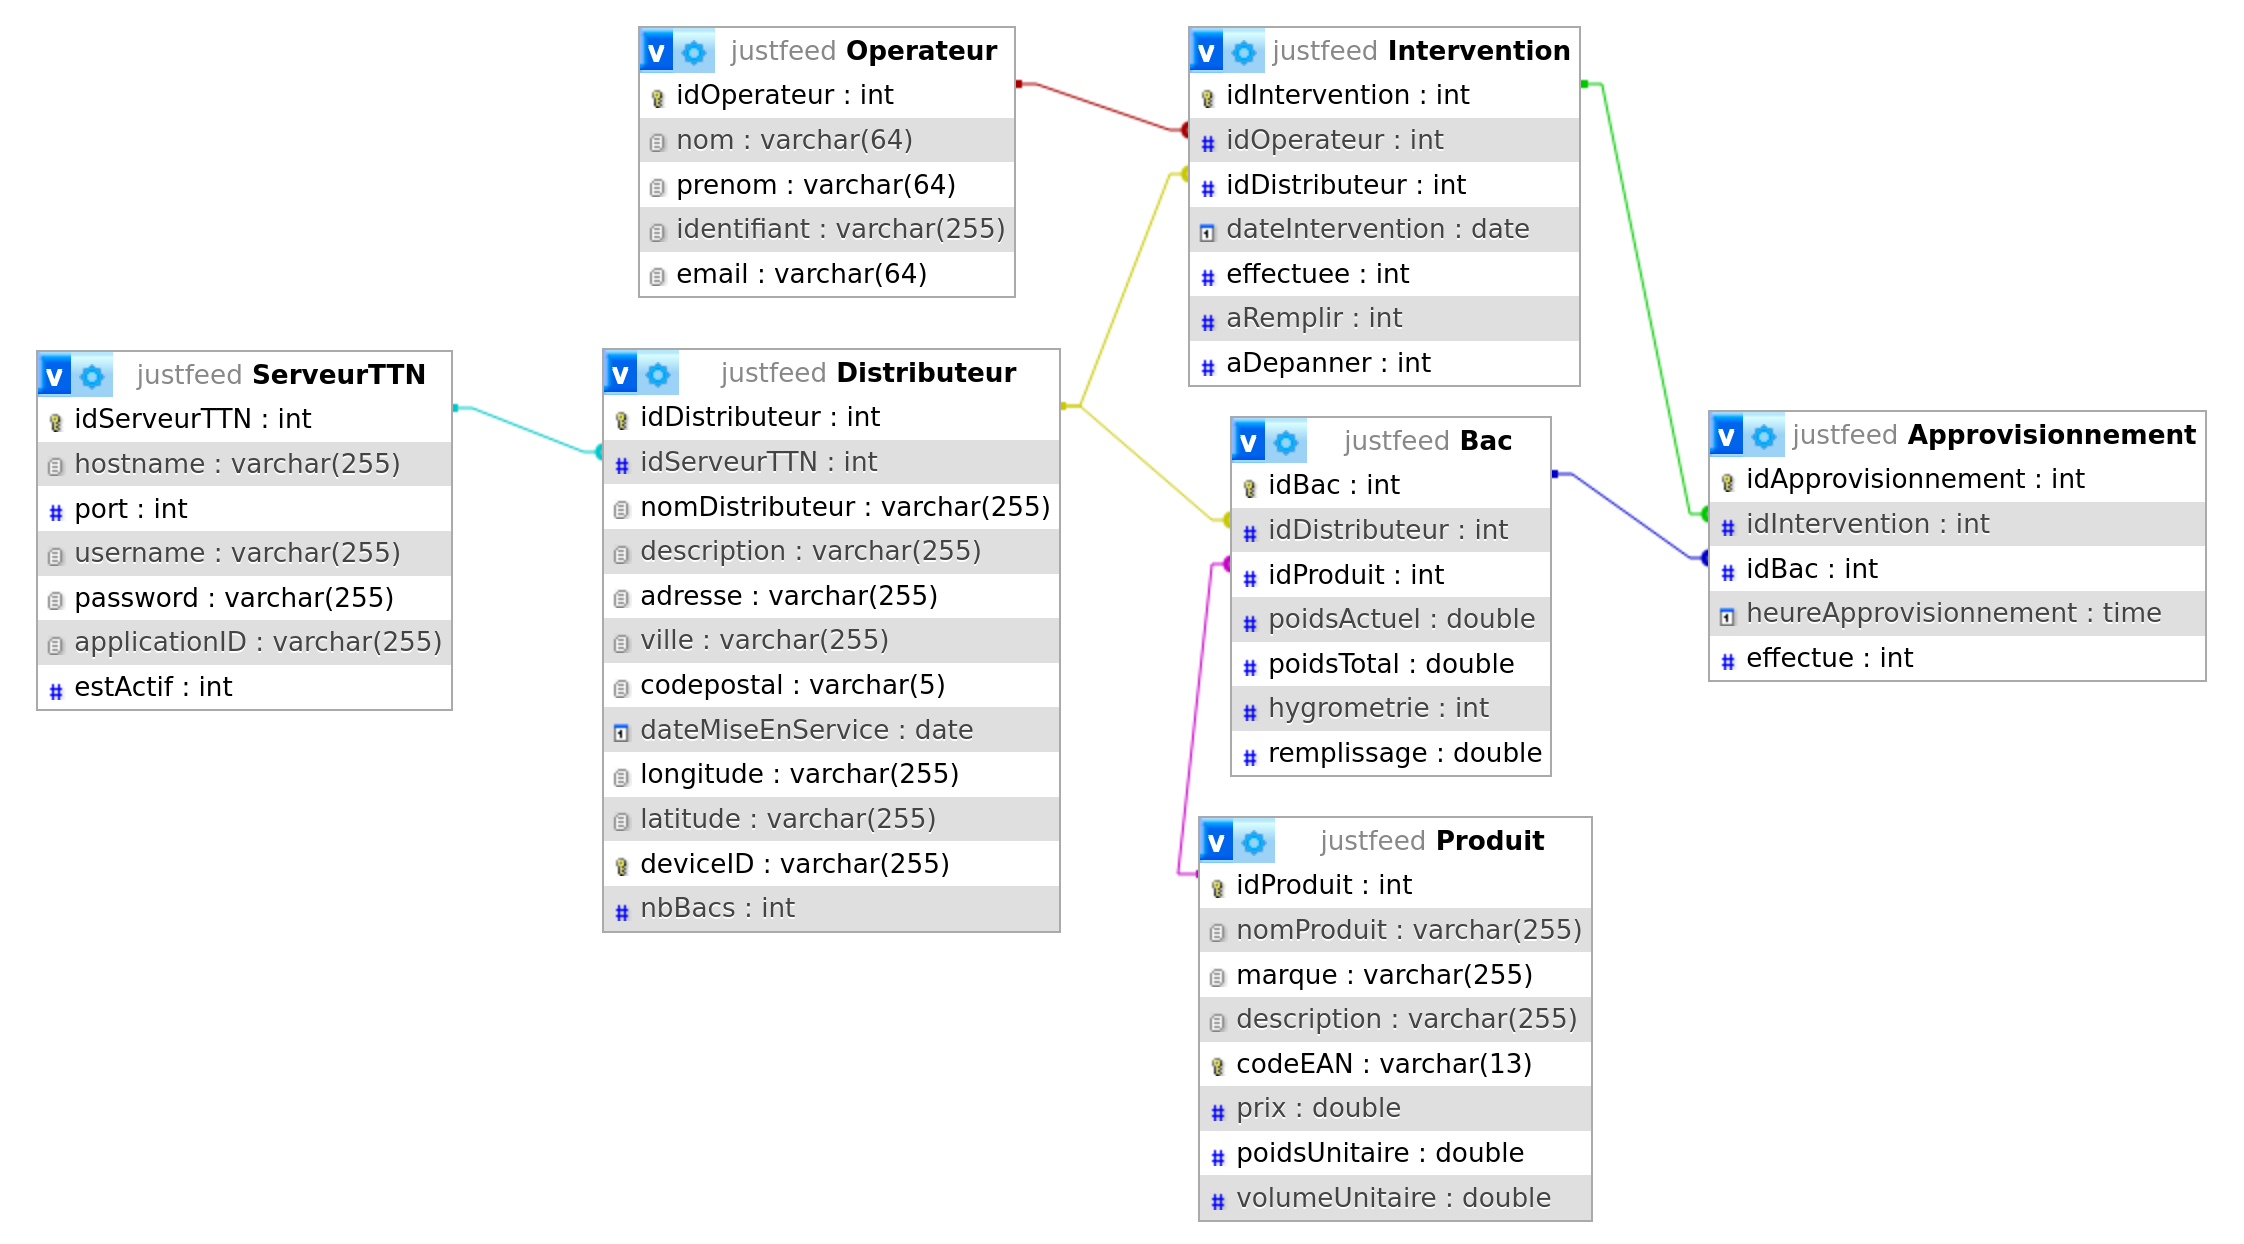
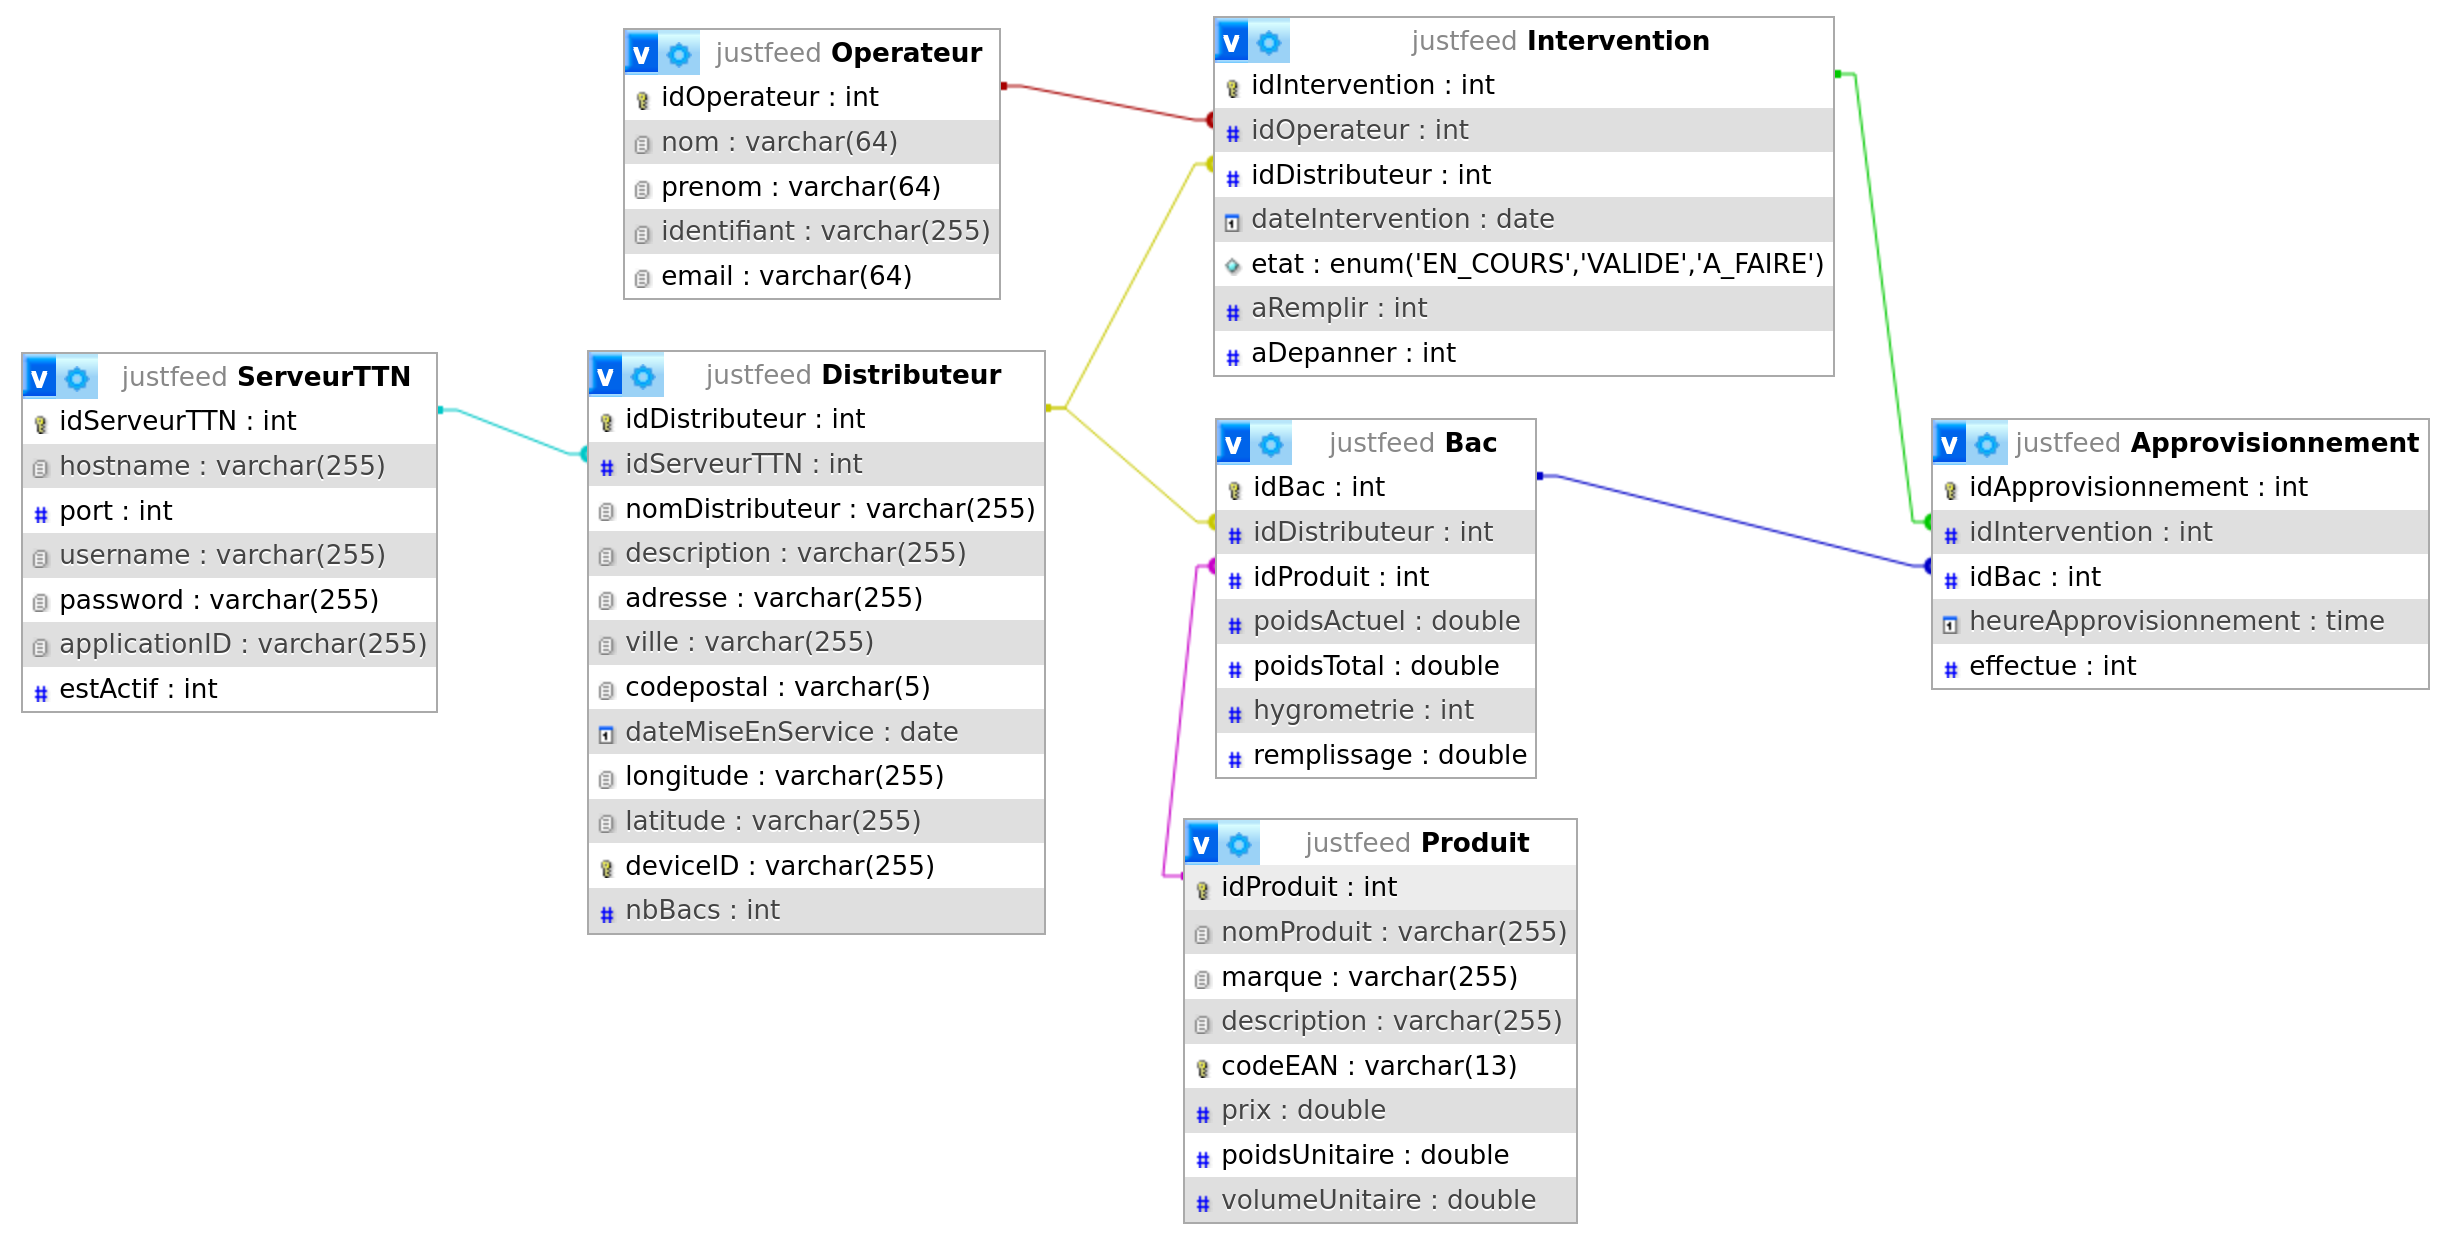
Remanie le code

Changed region(s): [[0.0, 0.0, 0.9982, 1.0]]

diff --git a/JustFeedAndroid/app/src/main/java/com/justfeed/justfeedandroid/ActiviteInterventions.java b/JustFeedAndroid/app/src/main/java/com/justfeed/justfeedandroid/ActiviteInterventions.java
@@ -42,7 +42,7 @@ public class ActiviteInterventions extends AppCompatActivity
     /**
      * Attributs
      */
-    private List<Intervention> listeInterventions; //!< Liste des interventions à afficher
+    private List<Intervention>   listeInterventions;    //!< Liste des interventions à afficher
     private Handler              handler;               //!< Le handler utilisé par l'activité
     private BaseDeDonnees        baseDeDonnees;         //!< Identifiants pour la base de données
     private RecyclerView         vueListeInterventions; //!< Affichage des Interventions
@@ -130,10 +130,11 @@ public class ActiviteInterventions extends AppCompatActivity
         this.vueListeInterventions.setHasFixedSize(true);
         this.layoutVueListeInterventions = new LinearLayoutManager(this);
         this.vueListeInterventions.setLayoutManager(this.layoutVueListeInterventions);
+        this.menuEtats = (Spinner)findViewById(R.id.menuEtats);
         this.menuEtats.setAdapter(
-                new ArrayAdapter<Intervention.Etats>(
-                        this, android.R.layout.simple_spinner_item, Intervention.Etats.values())
-                );
+          new ArrayAdapter<Intervention.Etats>(this,
+                                               android.R.layout.simple_spinner_item,
+                                               Intervention.Etats.values()));
     }
 
     /**
@@ -160,8 +161,8 @@ public class ActiviteInterventions extends AppCompatActivity
             @Override
             public void handleMessage(@NonNull Message message)
             {
-                //Log.d(TAG, "[Handler] id message = " + message.what);
-                //Log.d(TAG, "[Handler] message = " + message.obj.toString());
+                // Log.d(TAG, "[Handler] id message = " + message.what);
+                // Log.d(TAG, "[Handler] message = " + message.obj.toString());
 
                 if(message.what == BaseDeDonnees.REQUETE_SQL_SELECT_INTERVENTIONS)
                 {

diff --git a/JustFeedAndroid/app/src/main/java/com/justfeed/justfeedandroid/Intervention.java b/JustFeedAndroid/app/src/main/java/com/justfeed/justfeedandroid/Intervention.java
@@ -24,7 +24,7 @@ import java.util.Locale;
 public class Intervention
 {
     /**
-     * enum
+     * @enum Etats
      * @brief Les différents états d'une intervention.
      */
     public enum Etats
@@ -58,7 +58,7 @@ public class Intervention
      */
     private String       dateIntervention; //!< Date de l'intervention.
     private Distributeur distributeur;     //!< Distributeur où intervenir.
-    private Etats      etat;               //!< Les états d'une intervention.
+    private Etats        etat;             //!< Les états d'une intervention.
     private boolean      aRemplir;         //!< Si l'intervention consiste à remplir.
     private boolean      aDepanner;        //!< Si l'intervention consiste à dépanner.
 
@@ -128,7 +128,10 @@ public class Intervention
      * @brief Méthode d'accés à l'état de l'intervention.
      * @return etat.
      */
-    public Etats getEtat() { return this.etat; }
+    public Etats getEtat()
+    {
+        return this.etat;
+    }
 
     /**
      * @brief Méthode d'accés à aRemplir.
@@ -167,7 +170,8 @@ public class Intervention
             {
                 typeProduit       = bac.getTypeProduit().getNom();
                 listeBacsARemplir = listeBacsARemplir.concat(
-                  "   " + typeProduit + " : " + String.format("%.2f kg", bac.getQuantiteARemplir()) + "\n");
+                  "   " + typeProduit + " : " +
+                  String.format("%.2f kg", bac.getQuantiteARemplir()) + "\n");
             }
         }
 

diff --git a/JustFeedAndroid/app/src/main/java/com/justfeed/justfeedandroid/BaseDeDonnees.java b/JustFeedAndroid/app/src/main/java/com/justfeed/justfeedandroid/BaseDeDonnees.java
@@ -825,7 +825,7 @@ public class BaseDeDonnees
                                                 distributeur.getNom() + "dateIntervention = " +
                                                 resultatRequete.getString("dateIntervention") +
                                                 " - état = " +
-                                                (resultatRequete.getInt("effectuee") == 1) +
+                                                etat.valueOf(resultatRequete.getString("etat")) +
                                                 " - aRemplir = " +
                                                 (resultatRequete.getInt("aRemplir") == 1) +
                                                 " - aDepanner = " +

diff --git a/JustFeedAndroid/app/src/main/java/com/justfeed/justfeedandroid/VueIntervention.java b/JustFeedAndroid/app/src/main/java/com/justfeed/justfeedandroid/VueIntervention.java
@@ -6,6 +6,8 @@
 
 package com.justfeed.justfeedandroid;
 
+import static com.justfeed.justfeedandroid.Intervention.Etats.A_FAIRE;
+
 import android.graphics.Color;
 import android.view.View;
 import android.widget.Spinner;
@@ -57,7 +59,9 @@ public class VueIntervention extends ViewHolder
 
     public void afficherInterventions(Intervention intervention)
     {
-        Intervention.Etats etat = Intervention.Etats.valueOf(menuEtats.getSelectedItem().toString());
+        Intervention.Etats etat = A_FAIRE;
+        if(menuEtats != null)
+            etat = Intervention.Etats.valueOf(menuEtats.getSelectedItem().toString());
         if(etat == intervention.getEtat())
         {
             switch (etat)
